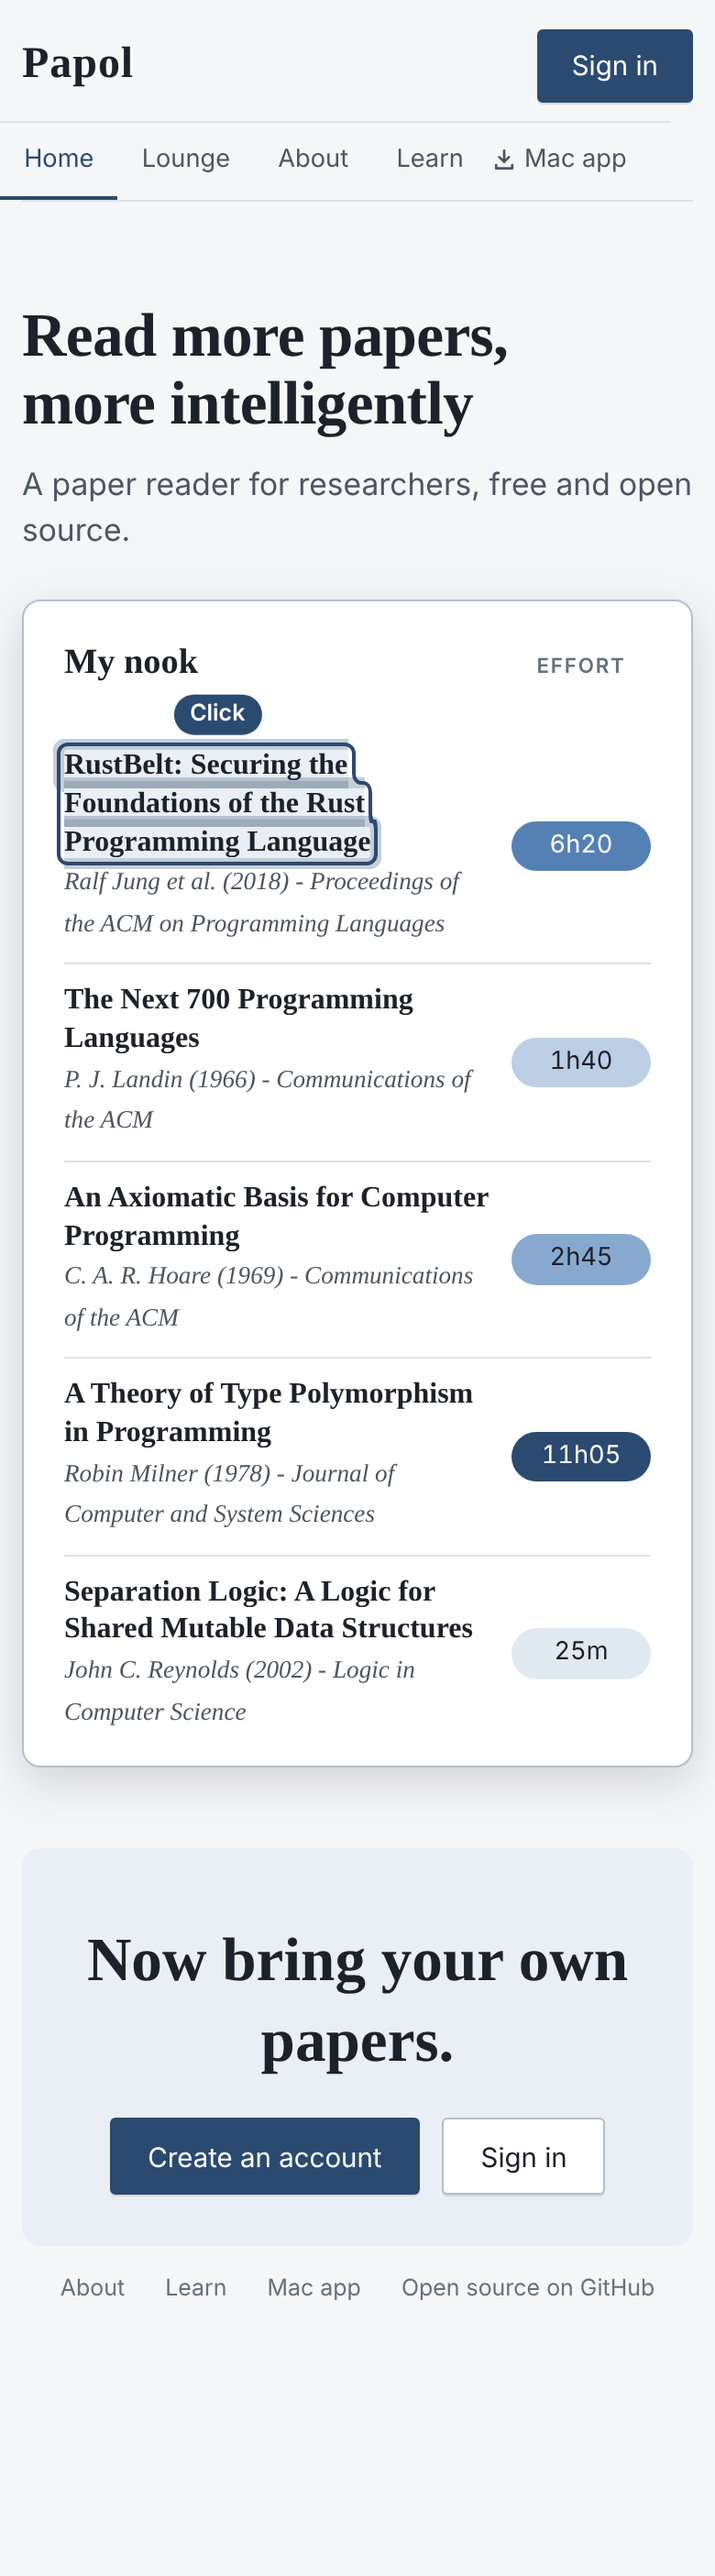
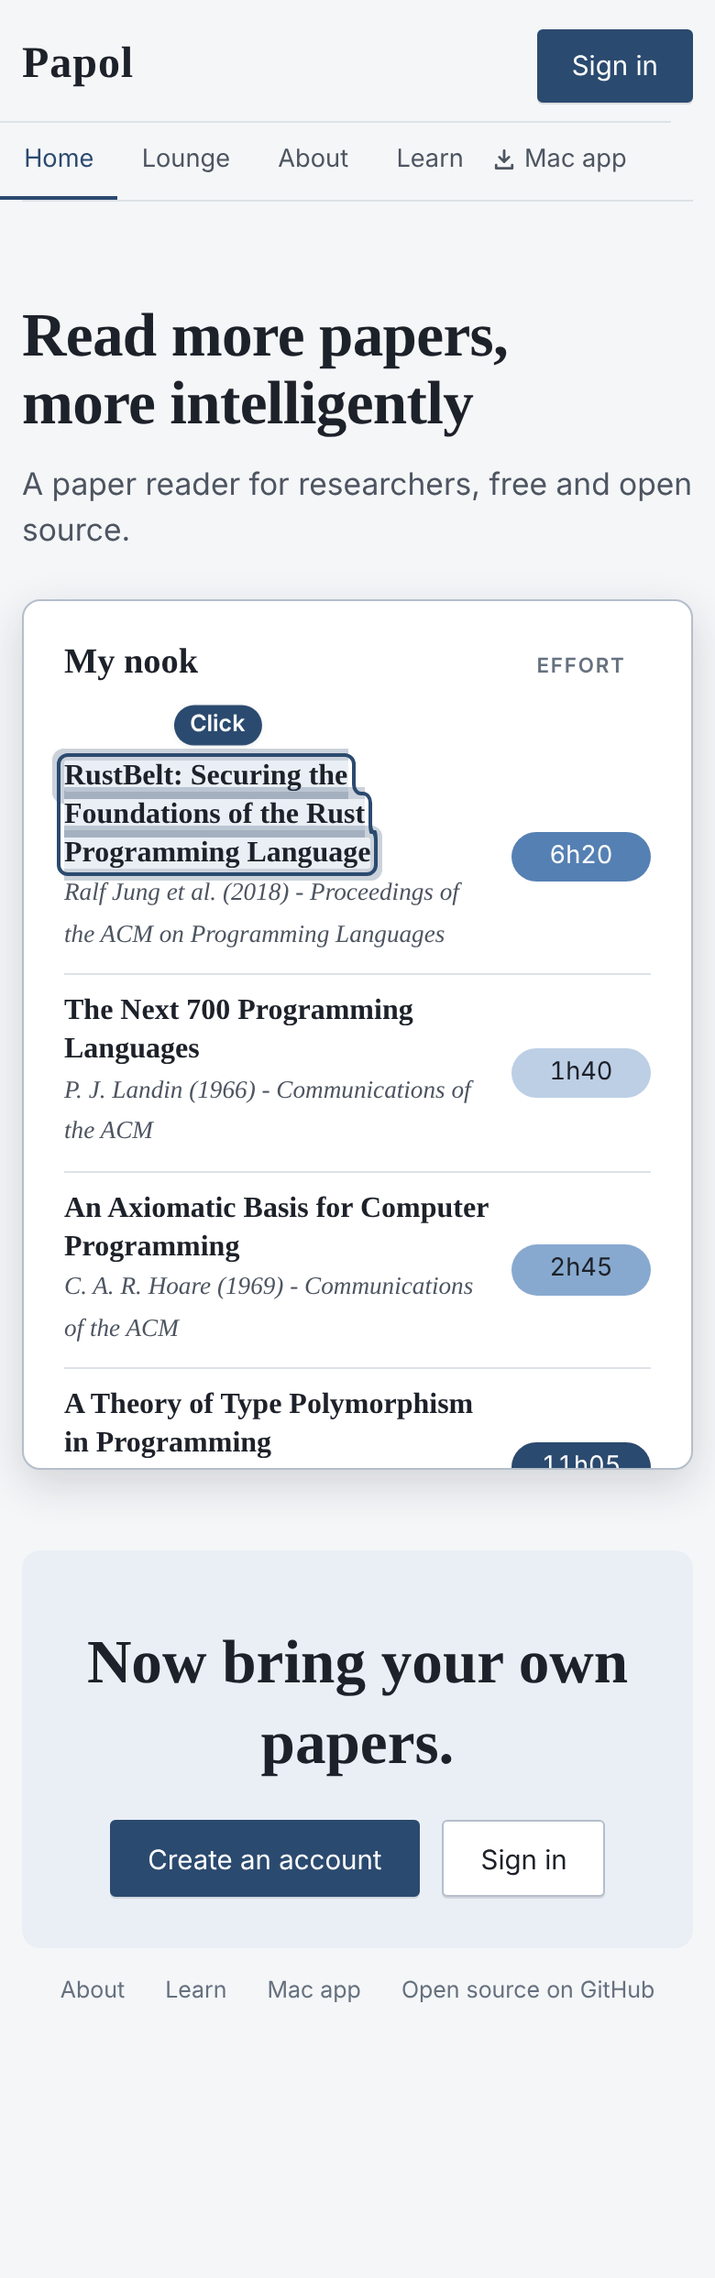
The landing nook scrolls, and opens on three and a half papers
The list scrolls inside its window. The window is as tall as the first
three papers and half of the fourth, measured, since a row is as tall
as its title wraps.

Claude-Session: https://claude.ai/code/session_01PQZzMUS3tB21Bk48RQwY8X

diff --git a/frontend/src/components/HomeNook.jsx b/frontend/src/components/HomeNook.jsx
@@ -1,4 +1,4 @@
-import React from 'react';
+import React, { useLayoutEffect, useRef, useState } from 'react';
 import { effortLevel, formatDurationShort } from '../activityView';
 
 // The landing page's nook: a few papers, listed the way a nook lists them,
@@ -34,14 +34,47 @@ const PAPERS = [
   },
 ];
 
+// How many papers show before the list is scrolled: the last one cut in
+// half, which says there are more under it.
+const SHOWN = 3.5;
+
 export default function HomeNook({ onOpen }) {
+  const listRef = useRef(null);
+  const [height, setHeight] = useState(null);
+
+  // Rows are as tall as their titles wrap, so the height that shows three
+  // and a half of them is measured, and measured again when the width
+  // changes.
+  useLayoutEffect(() => {
+    const list = listRef.current;
+    if (!list) return undefined;
+    const measure = () => {
+      const cut = list.querySelectorAll('li')[Math.floor(SHOWN)];
+      if (!cut) { setHeight(null); return; }
+      const top = cut.getBoundingClientRect().top - list.getBoundingClientRect().top + list.scrollTop;
+      setHeight(Math.round(top + cut.offsetHeight * (SHOWN % 1)));
+    };
+    measure();
+    if (typeof ResizeObserver === 'undefined') return undefined;
+    const observer = new ResizeObserver(measure);
+    observer.observe(list.querySelector('ul'));
+    return () => observer.disconnect();
+  }, []);
+
   return (
     <div className="landing-nook">
       <p className="landing-nook-head">
         <span className="landing-nook-name">My nook</span>
         <span className="landing-nook-column">Effort</span>
       </p>
-      <div className="paper-list">
+      <div
+        ref={listRef}
+        className="paper-list landing-nook-list"
+        style={height ? { maxHeight: height } : undefined}
+        tabIndex={0}
+        role="group"
+        aria-label="Papers in the nook"
+      >
         <ul>
           {PAPERS.map((paper, index) => (
             <li key={paper.title} onClick={onOpen}>

diff --git a/shared/applicationStyles.js b/shared/applicationStyles.js
@@ -3830,13 +3830,18 @@ a.button:hover {
 /* The nook: a few papers, listed as a nook lists them, in the same window
    the viewer then opens in. A row is one thing to click, all of it. */
 .landing-nook {
-  padding: 18px 22px 8px;
+  padding: 18px 22px 0;
   border: 1px solid var(--line-strong);
   border-radius: var(--radius-lg);
   background: var(--card);
   box-shadow: var(--shadow-md);
 }
-.landing-nook-head { display: flex; align-items: baseline; justify-content: space-between; gap: 12px; margin-bottom: 20px; }
+.landing-nook-head { display: flex; align-items: baseline; justify-content: space-between; gap: 12px; }
+/* The list scrolls in the window, which opens tall enough for three papers
+   and half of the fourth. Its padding keeps the first title's ring and the
+   tag over it inside what it clips. */
+.landing-nook-list { overflow-y: auto; overscroll-behavior: contain; margin: 0 -8px; padding: 26px 8px 0; }
+.landing-nook-list:focus-visible { outline: 2px solid var(--focus); outline-offset: 2px; }
 .landing-nook-name { color: var(--ink); font-size: var(--fs-xl); font-weight: 600; }
 .landing-nook-column { width: 4.75rem; color: var(--ink-faint); font: 600 var(--fs-2xs) var(--font-ui); letter-spacing: .08em; text-align: center; text-transform: uppercase; }
 /* No shelf bars here, so a row needs no lane for one. */
